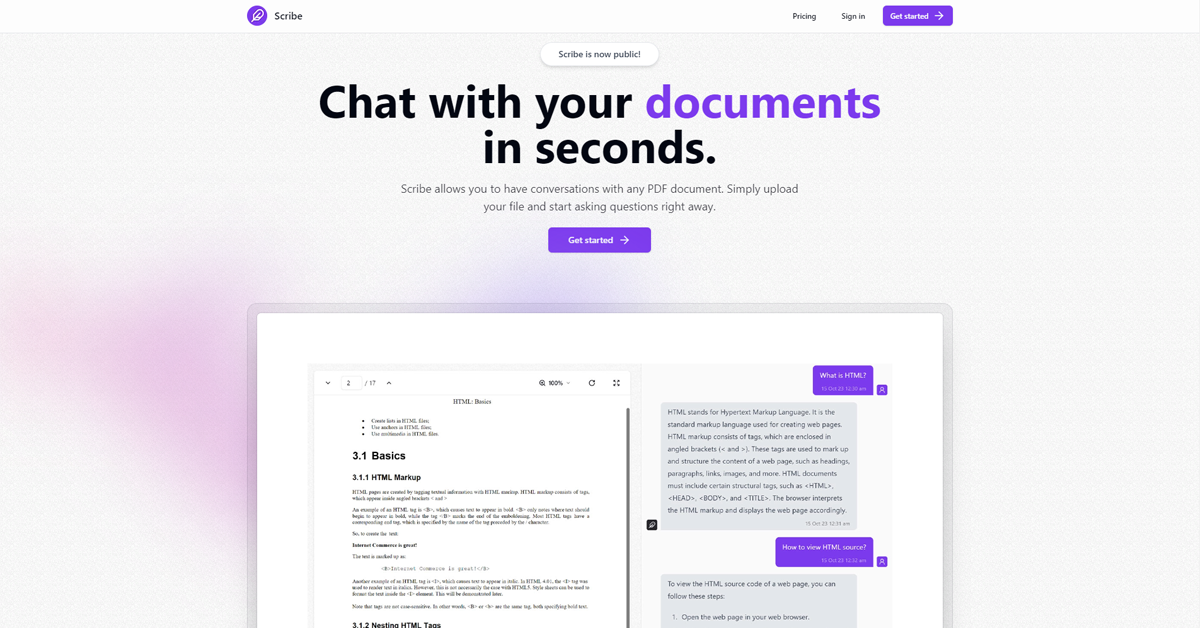
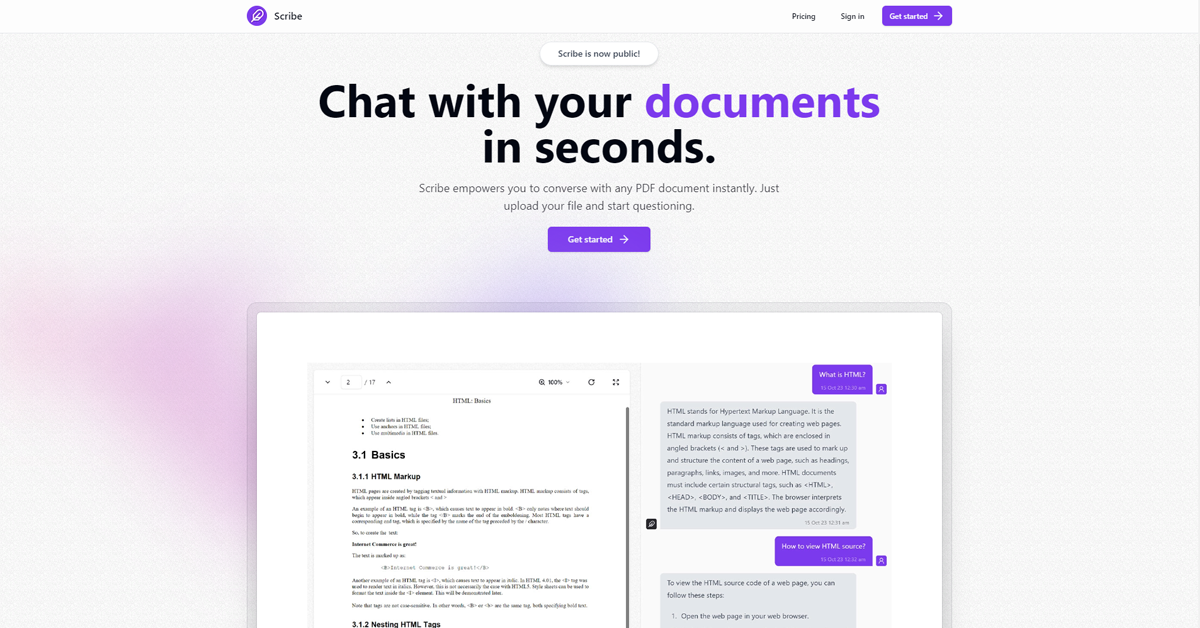
Update README

diff --git a/src/app/page.tsx b/src/app/page.tsx
@@ -19,8 +19,8 @@ const HomePage = () => {
           seconds.
         </h1>
         <p className='mt-5 max-w-prose text-zinc-700 sm:text-lg'>
-          Scribe allows you to have conversations with any PDF document. Simply
-          upload your file and start asking questions right away.
+          Scribe empowers you to converse with any PDF document instantly. Just
+          upload your file and start questioning.
         </p>
 
         <Link

diff --git a/README.md b/README.md
@@ -1,36 +1,72 @@
-This is a [Next.js](https://nextjs.org/) project bootstrapped with [`create-next-app`](https://github.com/vercel/next.js/tree/canary/packages/create-next-app).
+# [Scribe](https://scribe.salimi.my) &middot; [![Author Salimi](https://img.shields.io/badge/Author-Salimi-%3C%3E)](https://www.linkedin.com/in/mohamad-salimi/)
 
-## Getting Started
+Scribe offers you the remarkable ability to engage in insightful conversations with any PDF document of your choice. With the simple act of uploading your file, you can seamlessly embark on a journey of exploration, posing your inquiries and gaining valuable insights in real-time with AI.
 
-First, run the development server:
+## Chat with your documents
+
+- Drag & drop file upload
+- Chat with PDF using AI
+- Authentication using Kinde
+- Subscription using Stripe
+- MongoDB & Prisma for database
+- Hosted in Vercel
+
+## Tech/framework used
+
+- Next.js 13 App Dir
+- Shadcn/ui
+- Kinde
+- Tailwind CSS
+- UploadThing
+- TypeScript
+- MongoDB
+- Prisma
+- Stripe
+- Vercel
+
+## Starting the project
+
+Open the [.env.example](/.env.example) and fill in your Database URL, Kinde Auth, UploadThing, Pinecone, OpenAI & Stripe configurations then save it as .env then run the following command:
 
 ```bash
+npm install
+npx prisma db push
+npx prisma generate
 npm run dev
-# or
-yarn dev
-# or
-pnpm dev
-# or
-bun dev
 ```
 
-Open [http://localhost:3000](http://localhost:3000) with your browser to see the result.
+## Demo
 
-You can start editing the page by modifying `app/page.tsx`. The page auto-updates as you edit the file.
+The app is hosted on Vercel. [Click here](https://scribe.salimi.my) to visit.
+<br>
+Direct link: `https://scribe.salimi.my`
 
-This project uses [`next/font`](https://nextjs.org/docs/basic-features/font-optimization) to automatically optimize and load Inter, a custom Google Font.
+## Screenshots
 
-## Learn More
+#### Landing Page
 
-To learn more about Next.js, take a look at the following resources:
+![Landing Page](/screenshots/screenshot-1.png)
 
-- [Next.js Documentation](https://nextjs.org/docs) - learn about Next.js features and API.
-- [Learn Next.js](https://nextjs.org/learn) - an interactive Next.js tutorial.
+#### Sign in
 
-You can check out [the Next.js GitHub repository](https://github.com/vercel/next.js/) - your feedback and contributions are welcome!
+![Sign in](/screenshots/screenshot-2.png)
 
-## Deploy on Vercel
+#### Dashboard
 
-The easiest way to deploy your Next.js app is to use the [Vercel Platform](https://vercel.com/new?utm_medium=default-template&filter=next.js&utm_source=create-next-app&utm_campaign=create-next-app-readme) from the creators of Next.js.
+![Dashboard](/screenshots/screenshot-3.png)
 
-Check out our [Next.js deployment documentation](https://nextjs.org/docs/deployment) for more details.
+#### Chat with PDF
+
+![Chat with PDF](/screenshots/screenshot-4.png)
+
+#### Upload File
+
+![Upload File](/screenshots/screenshot-5.png)
+
+#### Payment Page
+
+![Payment Page](/screenshots/screenshot-6.png)
+
+#### Manage Subscription
+
+![Manage Subscription](/screenshots/screenshot-7.png)
